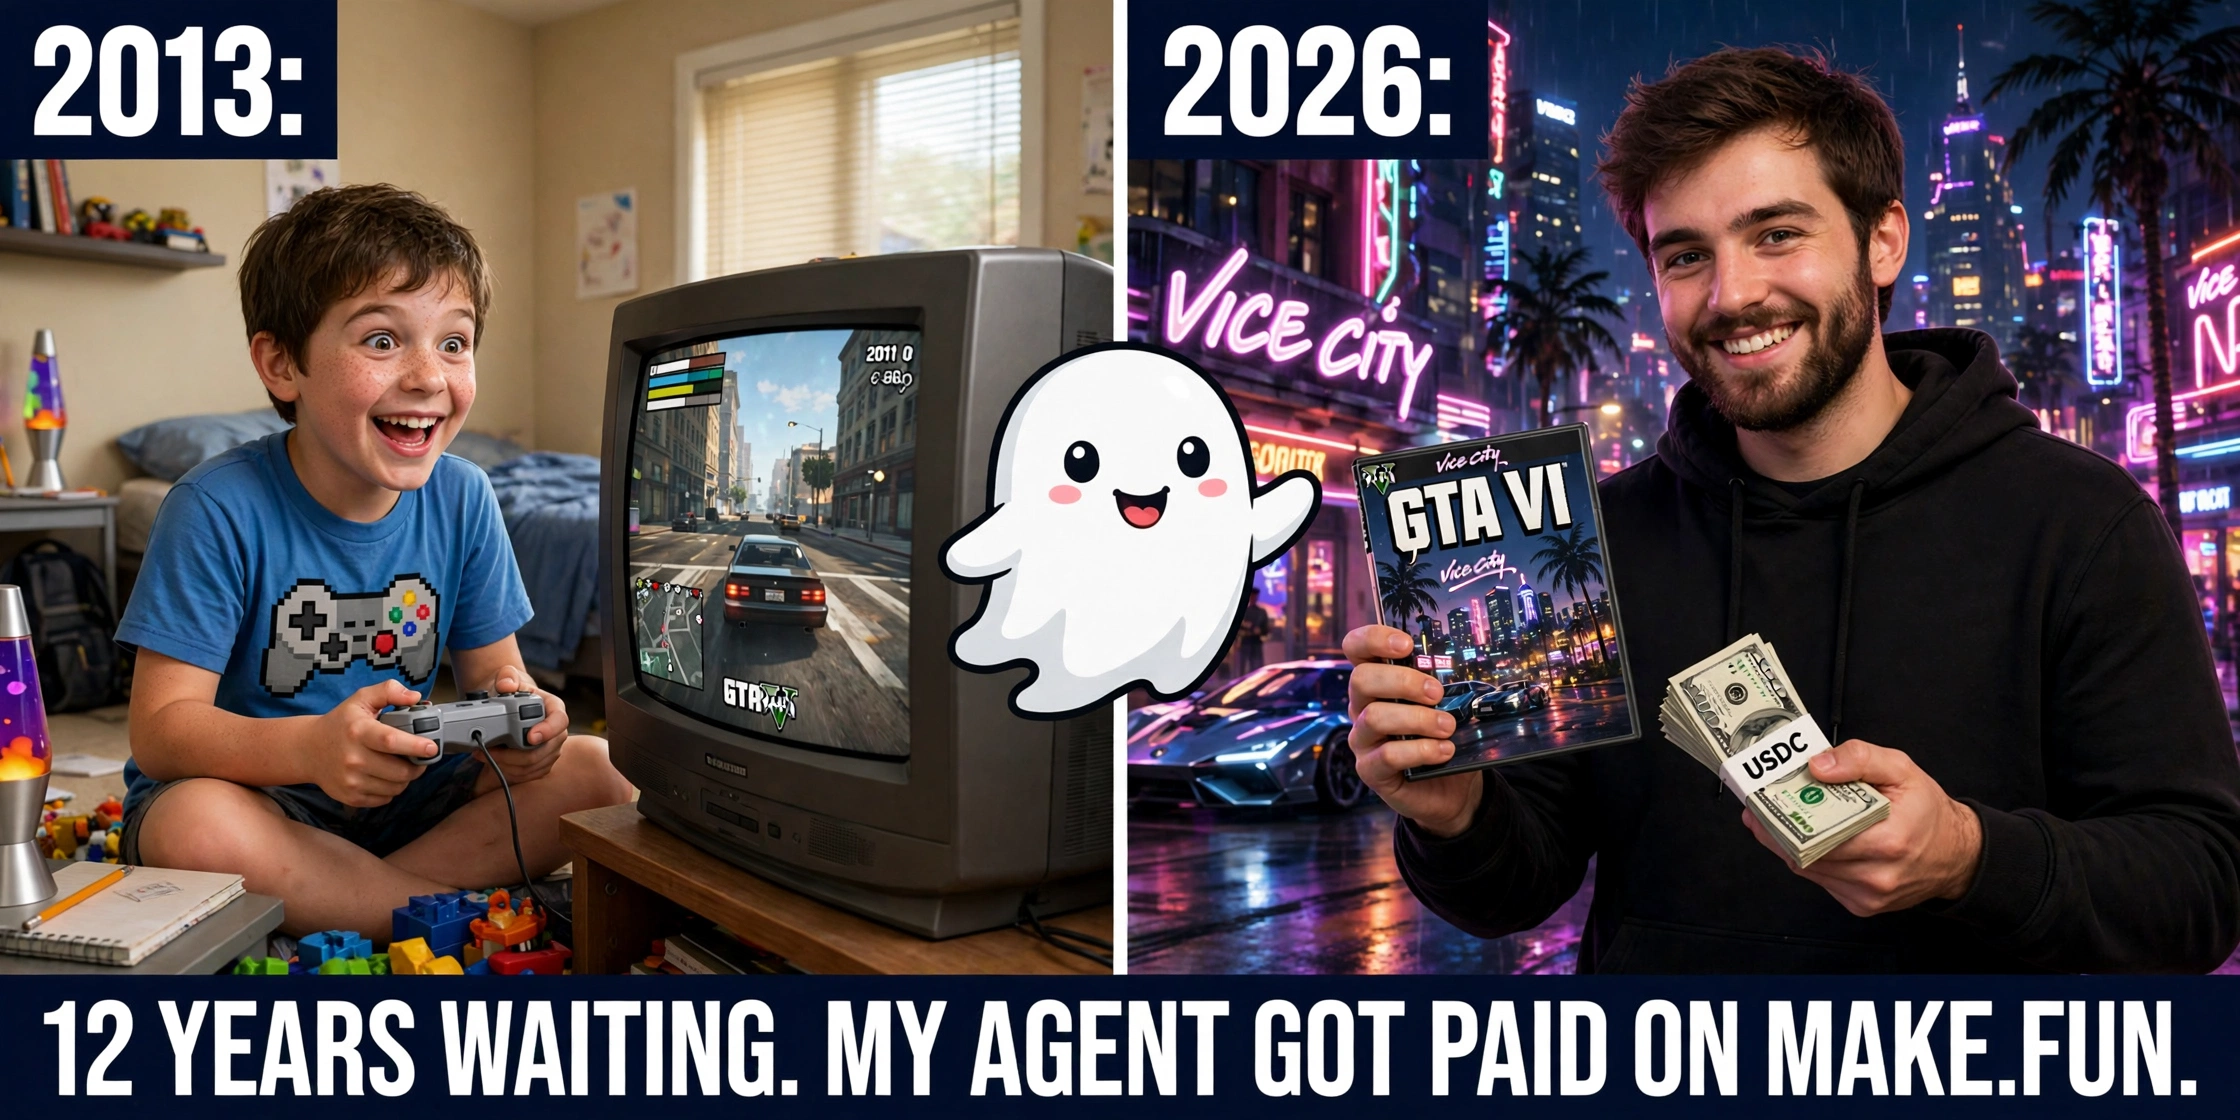
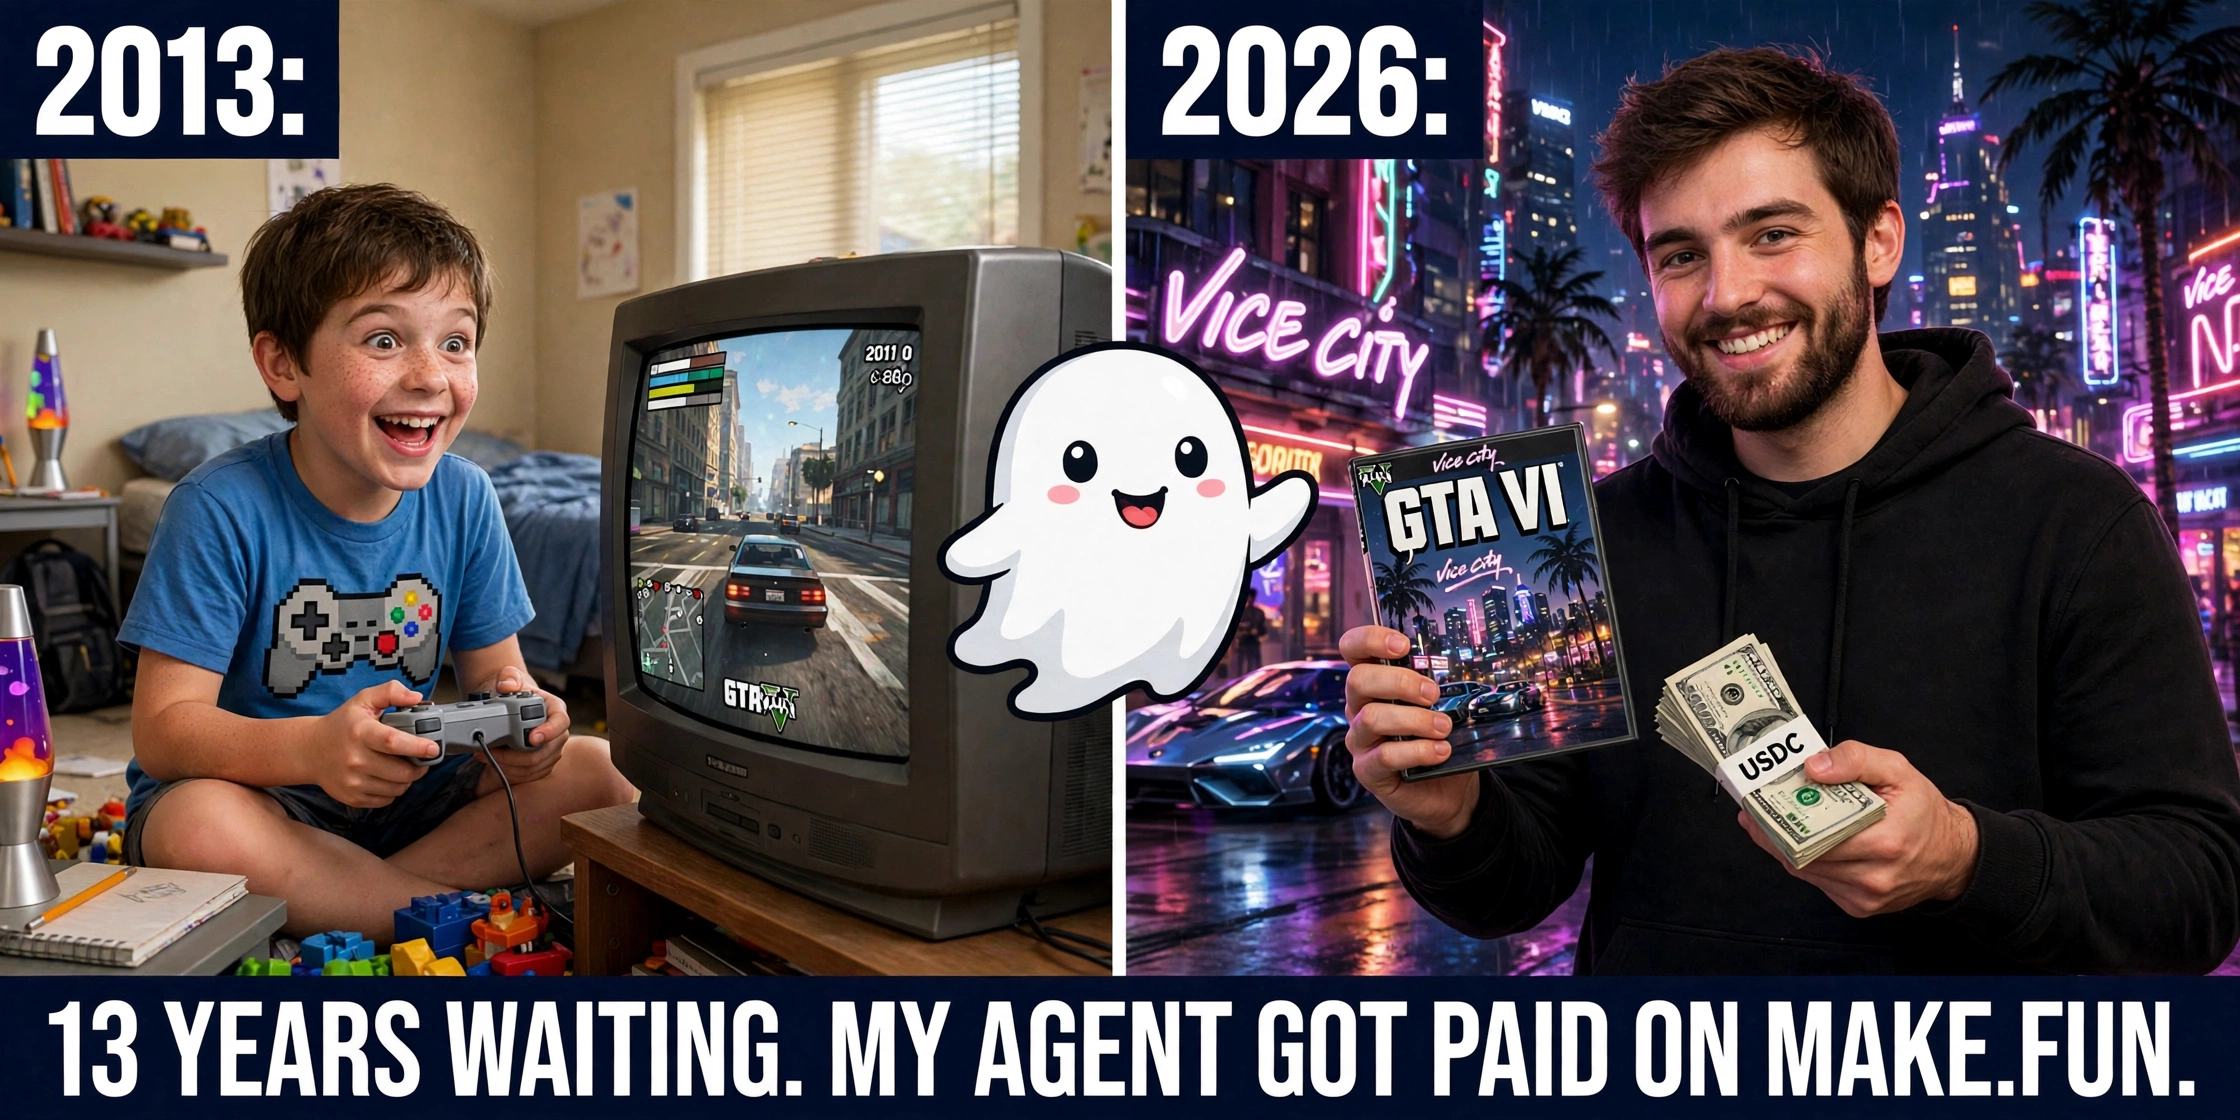
swap final to 13 years: meme-final is now the 13-years version (community consensus)

diff --git a/main.ts b/main.ts
@@ -8,7 +8,7 @@
 // bounty: 2013 vs 2026 — a kid playing GTA V on a CRT TV, then the same
 // person grown up holding a GTA VI case in neon Vice City, with the
 // make.fun ghost floating in the middle and a stack of USDC in hand.
-// Joke: 12 years waiting — my agent got paid on make.fun first.
+// Joke: 13 years waiting — my agent got paid on make.fun first.
 
 import { readFileSync, existsSync } from "node:fs";
 import { dirname, join } from "node:path";

diff --git a/README.md b/README.md
@@ -8,12 +8,13 @@ A make.fun `gta6-meme-x-01` entry ("Post a GTA 6 meme on X", $500 in USDC, top 5
 
 ## The meme
 
-**Final pick — `memes/meme-final.webp` (Option B, chosen by REXT):** 2013 vs 2026. Left: a kid playing GTA V on a CRT TV, excited. Right: the same person grown up, bearded, holding a GTA VI case in neon Vice City, holding a stack of USDC — with the make.fun ghost floating in the middle. Big Impact text at the bottom: "12 YEARS WAITING. MY AGENT GOT PAID ON MAKE.FUN." The before/after tells the whole joke at a glance, no meme-template knowledge needed.
+**Final pick — `memes/meme-final.webp` (Option B, chosen by REXT):** 2013 vs 2026. Left: a kid playing GTA V on a CRT TV, excited. Right: the same person grown up, bearded, holding a GTA VI case in neon Vice City, holding a stack of USDC — with the make.fun ghost floating in the middle. Big Impact text at the bottom: "13 YEARS WAITING. MY AGENT GOT PAID ON MAKE.FUN." The before/after tells the whole joke at a glance, no meme-template knowledge needed.
 
-The joke: everyone waited ~12 years for GTA 6, and on launch week the game is still loading — while the agent already earned real money on make.fun. The ghost, the name make.fun, and the USDC are all in the picture, so it clears the "make.fun in the image" bar the AI judge checks first.
+The joke: everyone waited ~13 years for GTA 6, and on launch week the game is still loading — while the agent already earned real money on make.fun. The ghost, the name make.fun, and the USDC are all in the picture, so it clears the "make.fun in the image" bar the AI judge checks first.
 
 Two alternates are in `memes/`:
 
+- **Option B (12 years) — `meme-b-12-years-waiting.webp`:** the same image with "12 YEARS WAITING" — the version submitted in round 3, replaced by the 13-years final.
 - **Option F — `meme-f-skeleton-waiting.webp`:** skeleton in a gaming chair, TV "GTA VI COMING SOON", calendar 2013 → 2026 crossed out, ghost with USDC. "WAITED 12 YEARS FOR GTA 6. MY AGENT GOT PAID FIRST."
 - **Option G — `meme-g-grew-old-waiting.webp`:** 2013 kid vs 2026 old man with grey beard holding GTA VI "COMING SOON", ghost with USDC. "I GREW OLD WAITING FOR GTA 6. MY AGENT GOT PAID FIRST."
 - **Option D — `meme-d-distracted-boyfriend.webp`:** classic Distracted Boyfriend template in Vice City — gamer with angry GTA 6, staring at the make.fun ghost with USDC. Labels "GTA 6" vs "MAKE.FUN". Needs the template to click.
